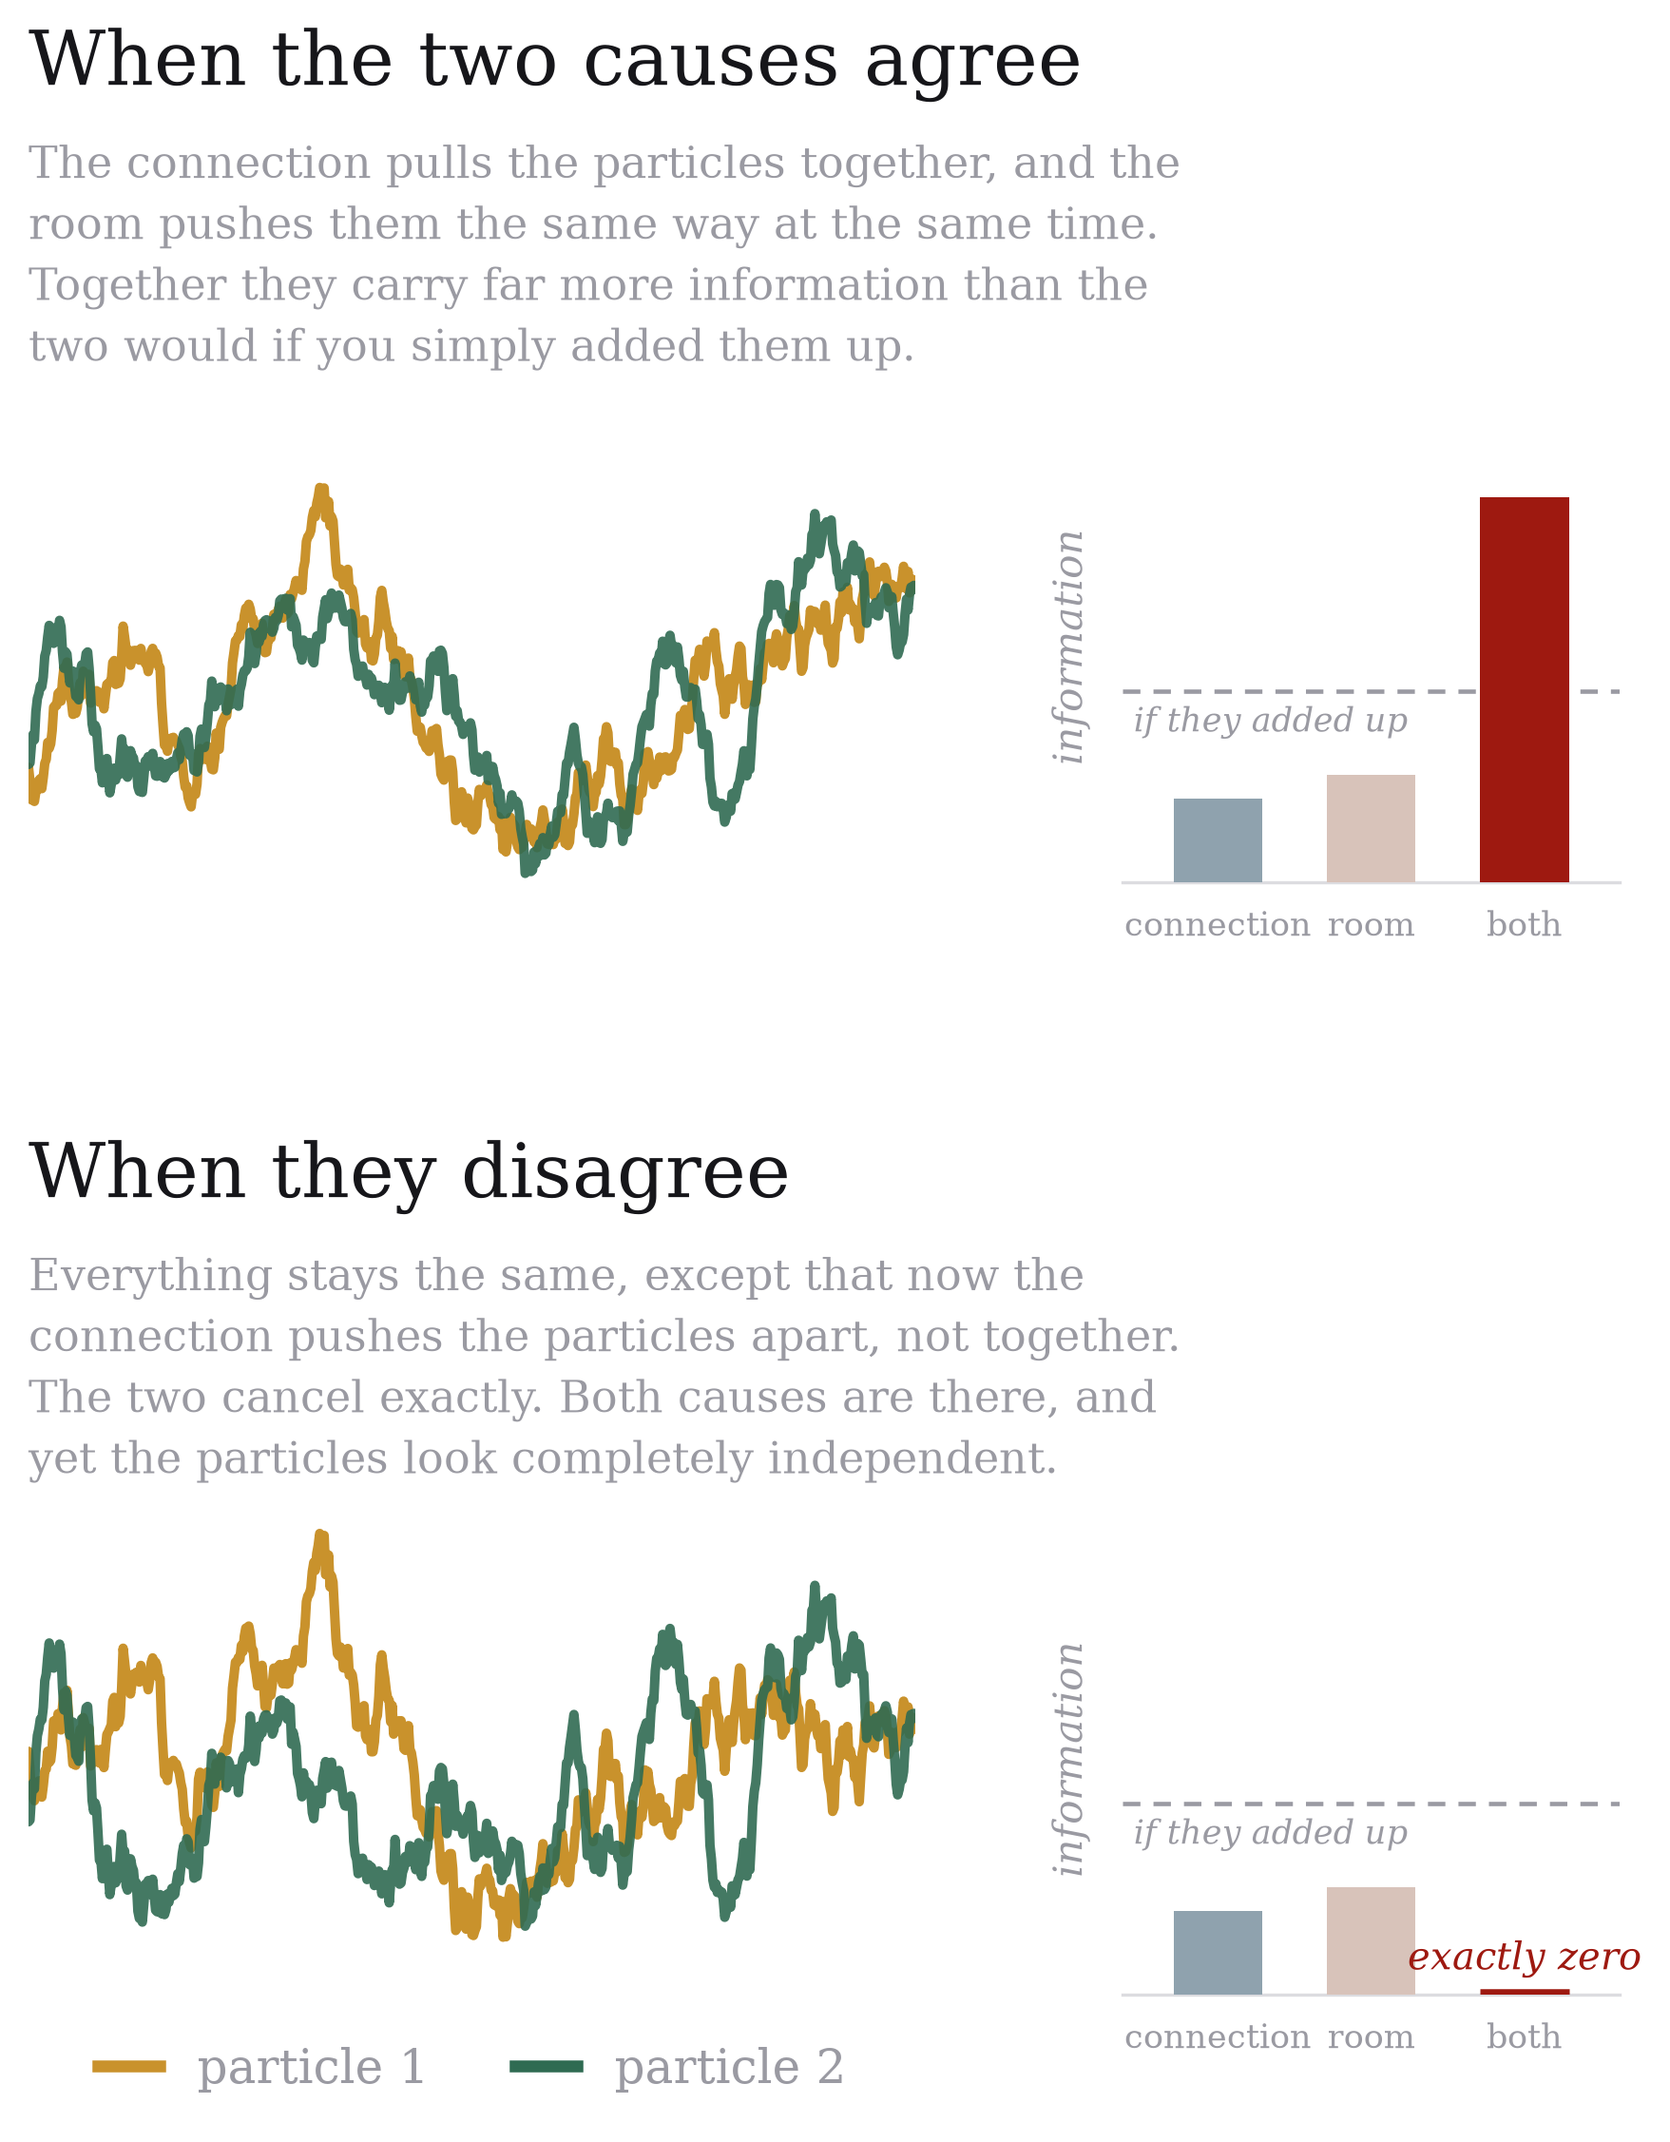
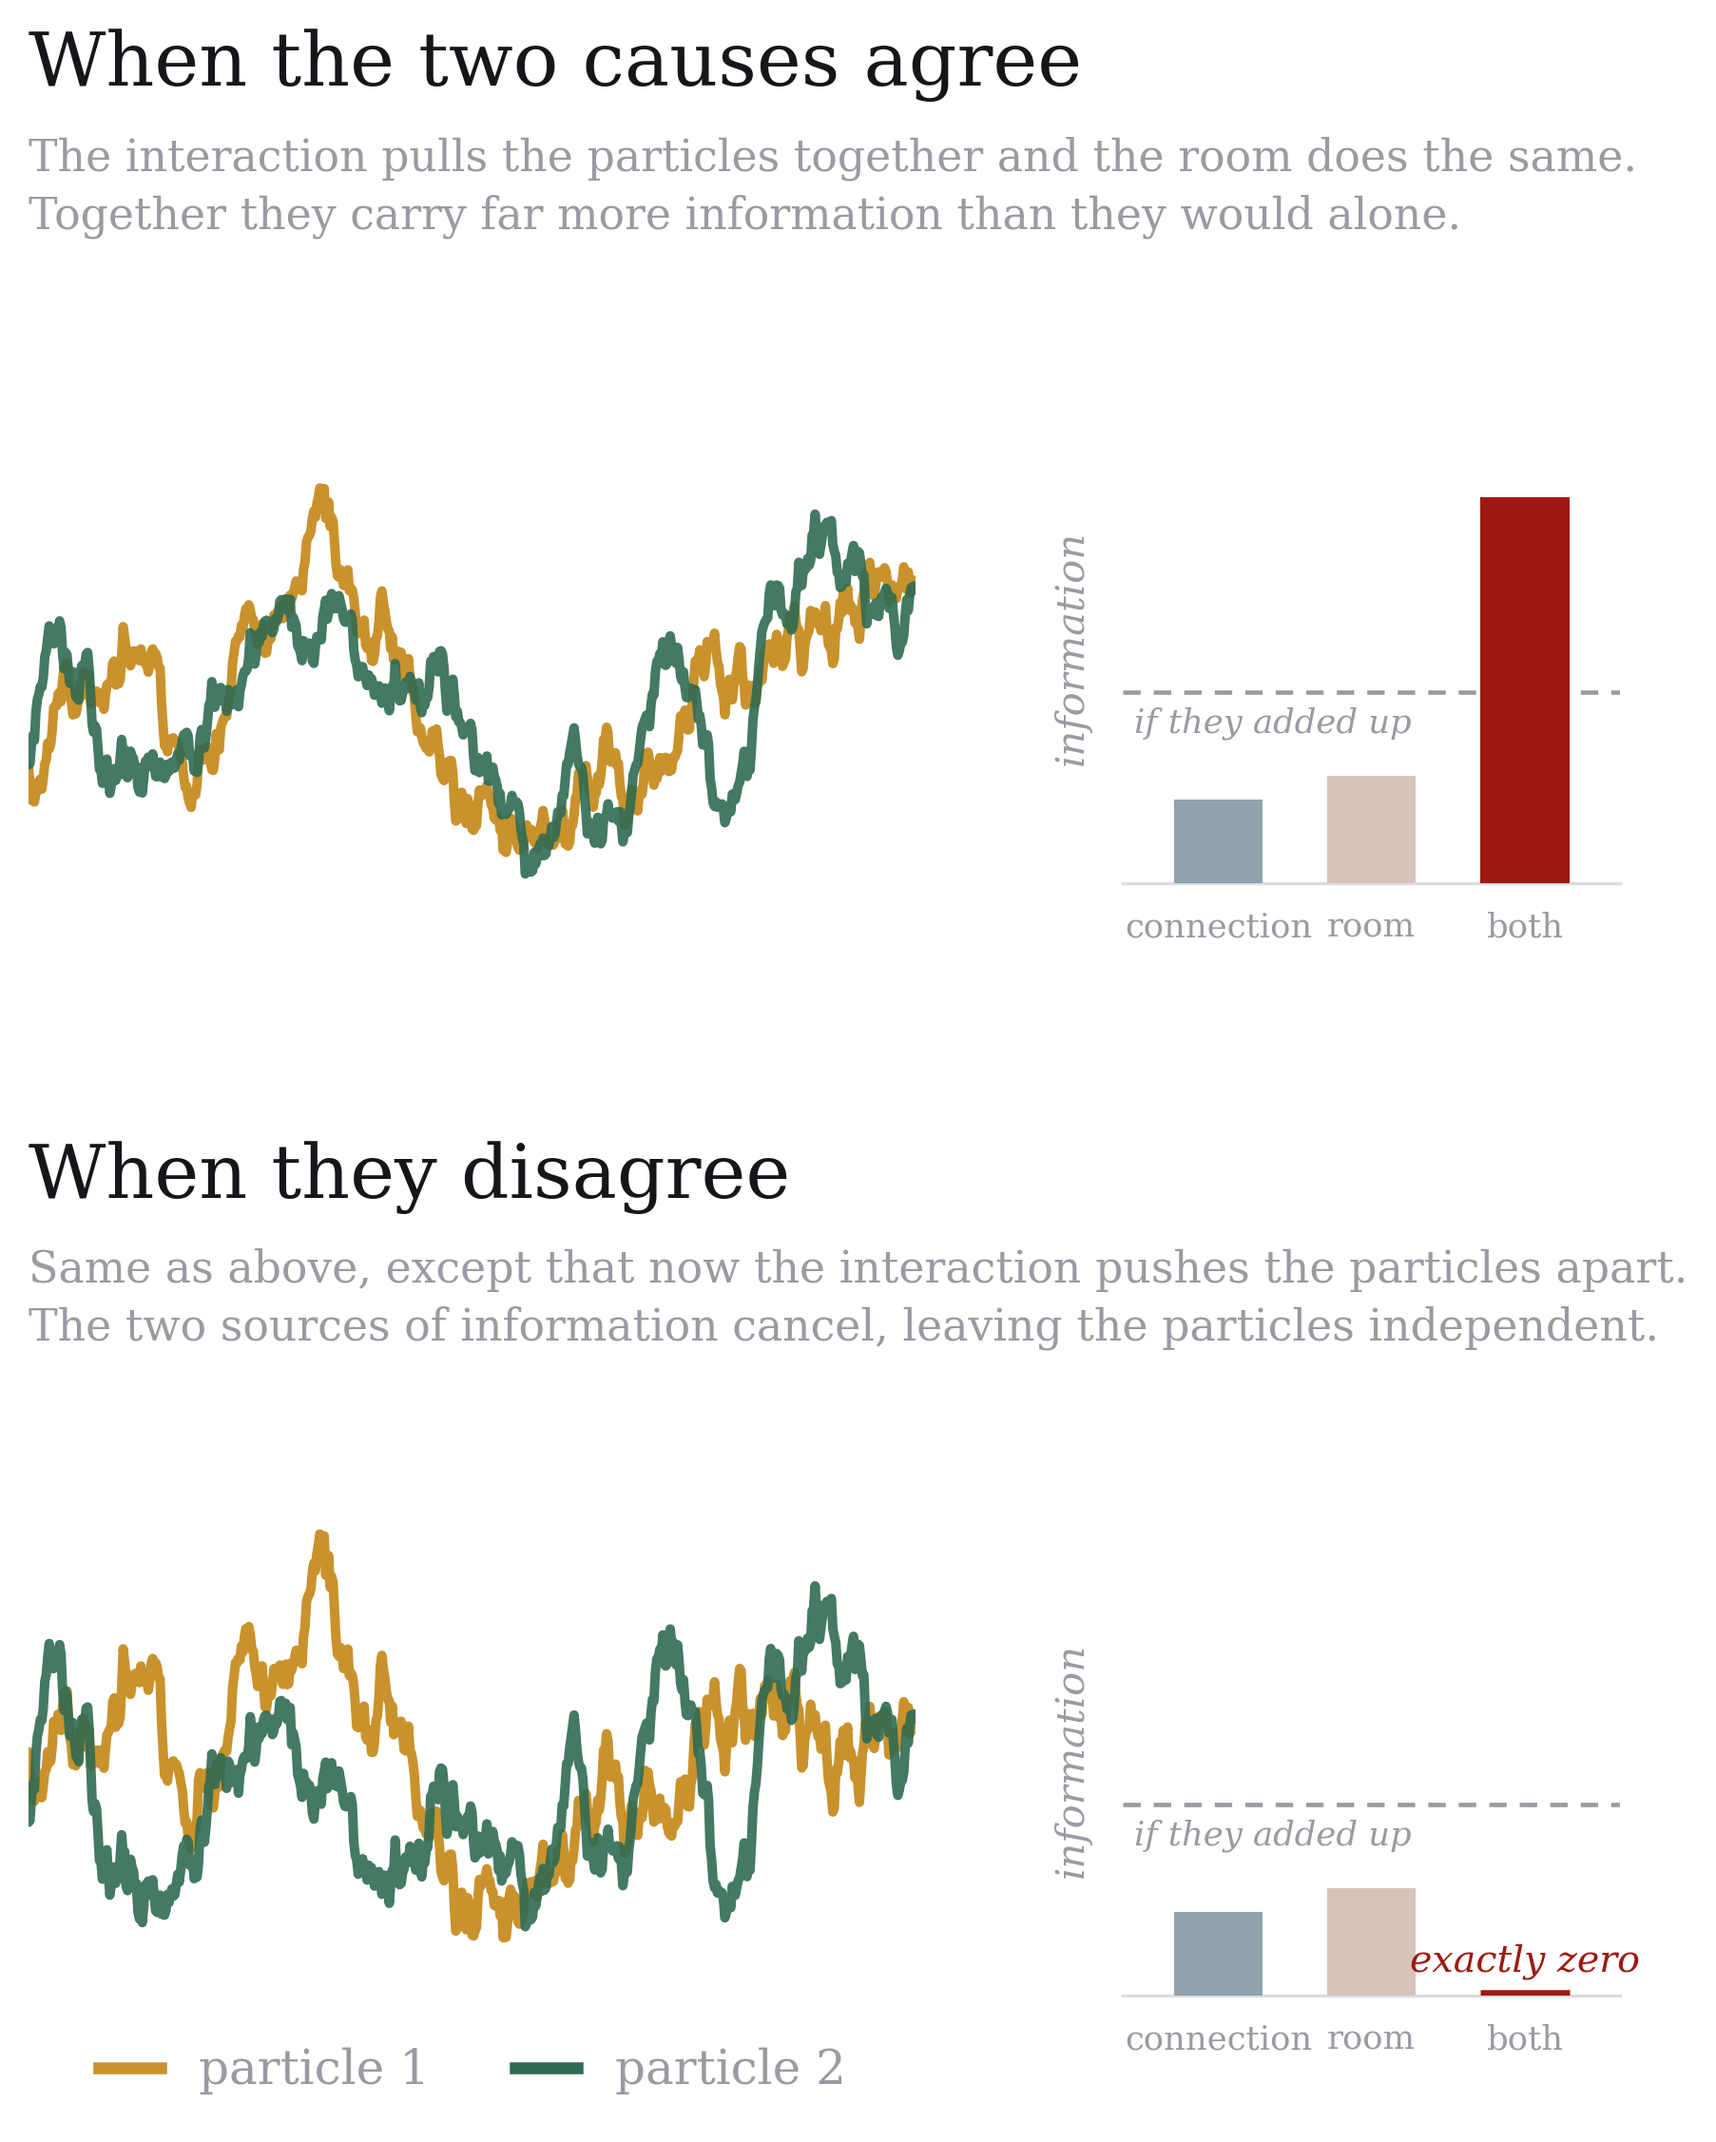
Simplified figure structure

diff --git a/_posts/2026-08-17_code.py b/_posts/2026-08-17_code.py
@@ -173,20 +173,18 @@ ymax = mutual_info(G_POS, D_gamma) * 1.22
 # ---------------- panel 1: they agree ---------------------------------------
 title_block(fig.add_subplot(gs_top[0, :]),
             "When the two causes agree",
-            "The connection pulls the particles together, and the",
-            "room pushes them the same way at the same time.",
-            "Together they carry far more information than the",
-            "two would if you simply added them up.")
+            "The interaction pulls the particles together and the room does the same.",
+            "Together they carry far more information than they would alone.",
+            )
 traj(fig.add_subplot(gs_top[1, 0]), xa, ya)
 bars(fig.add_subplot(gs_top[1, 1]), G_POS, ymax)
 
 # ---------------- panel 2: they disagree ------------------------------------
 title_block(fig.add_subplot(gs_bot[0, :]),
             "When they disagree",
-            "Everything stays the same, except that now the",
-            "connection pushes the particles apart, not together.",
-            "The two cancel exactly. Both causes are there, and",
-            "yet the particles look completely independent.")
+            "Same as above, except that now the interaction pushes the particles apart.",
+            "The two sources of information cancel, leaving the particles independent.",
+            )
 ax_t2 = fig.add_subplot(gs_bot[1, 0])
 traj(ax_t2, xd, yd)
 bars(fig.add_subplot(gs_bot[1, 1]), G_NEG, ymax)
